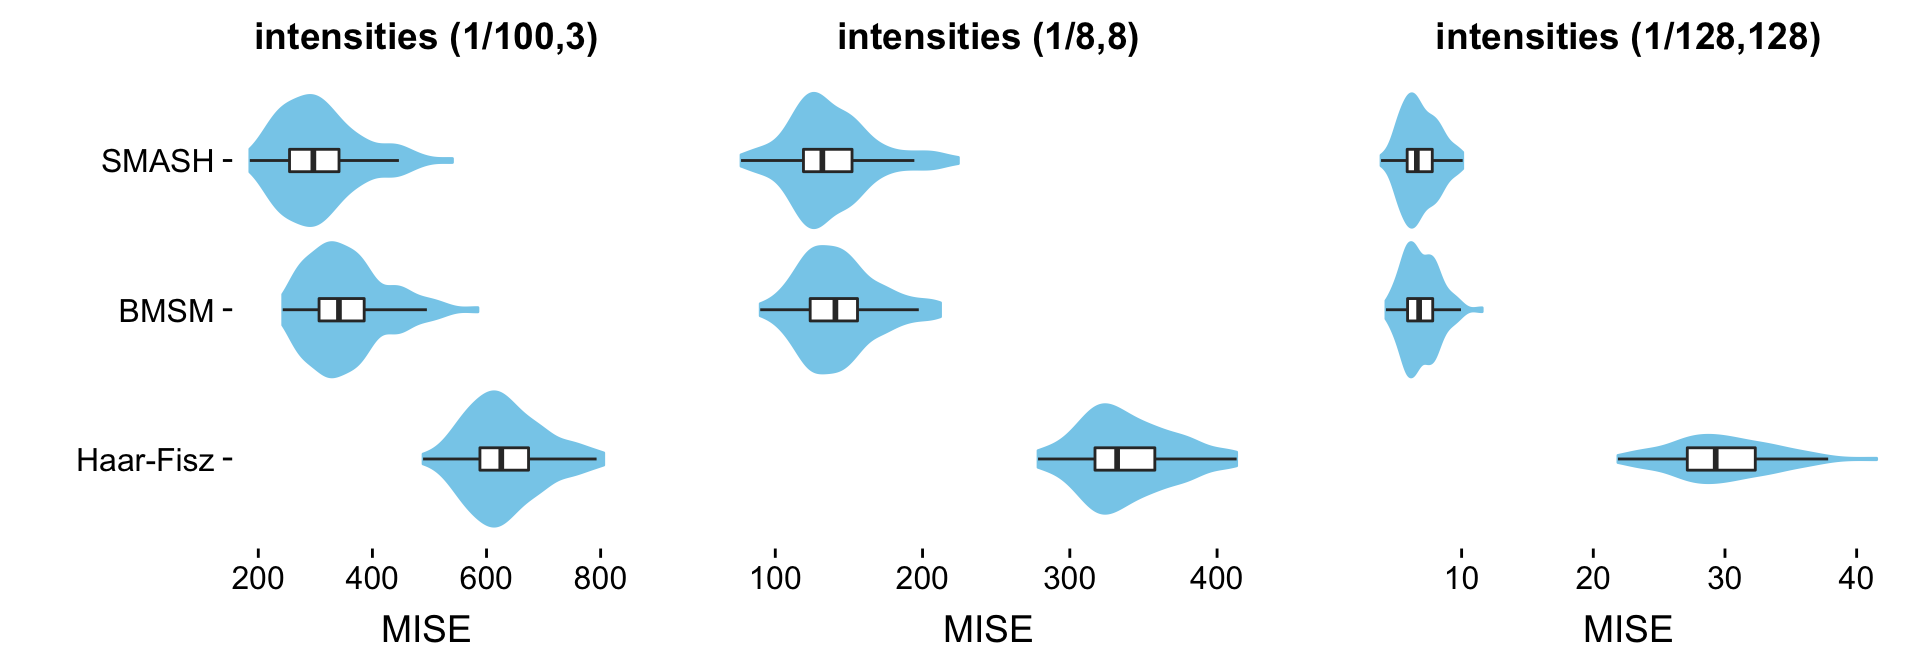
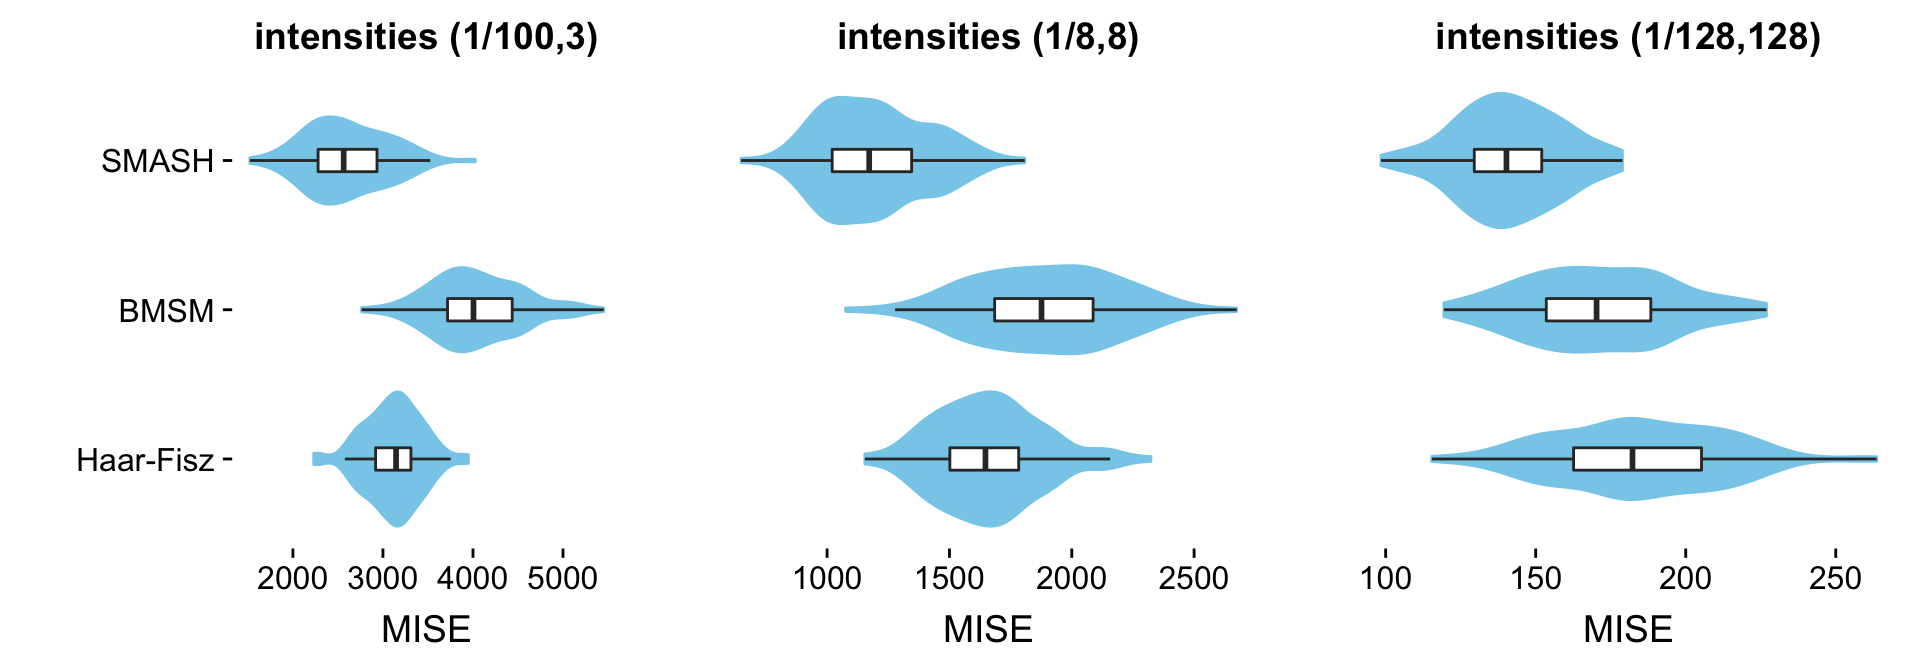
Fixed plots for Bursts simulations.

diff --git a/docs/poisson.html b/docs/poisson.html
@@ -241,7 +241,7 @@ div.section {
 </details>
 </li>
 <li>
-<p><details> <summary> <strong style="color:blue;">✔</strong> <strong>Repository version:</strong> <a href="https://github.com/stephenslab/smash-paper/tree/7db6b711fa8597bcd5550ee10280cf5b30b4c063" target="_blank">7db6b71</a> </summary></p>
+<p><details> <summary> <strong style="color:blue;">✔</strong> <strong>Repository version:</strong> <a href="https://github.com/stephenslab/smash-paper/tree/b9f5cd35861aa46b14d176cfb1f3ed36e5a1fdac" target="_blank">b9f5cd3</a> </summary></p>
 Great! You are using Git for version control. Tracking code development and connecting the code version to the results is critical for reproducibility. The version displayed above was the version of the Git repository at the time these results were generated. <br><br> Note that you need to be careful to ensure that all relevant files for the analysis have been committed to Git prior to generating the results (you can use <code>wflow_publish</code> or <code>wflow_git_commit</code>). workflowr only checks the R Markdown file, but you know if there are other scripts or data files that it depends on. Below is the status of the Git repository when the results were generated:
 <pre><code>
 Ignored files:
@@ -273,9 +273,6 @@ Ignored files:
     Ignored:    dsc/code/Wavelab850/MEXSource/dst_ii.mexmac
     Ignored:    dsc/code/Wavelab850/MEXSource/dst_iii.mexmac
 
-Unstaged changes:
-    Modified:   analysis/index.Rmd
-
 </code></pre>
 Note that any generated files, e.g. HTML, png, CSS, etc., are not included in this status report because it is ok for generated content to have uncommitted changes. </details>
 </li>
@@ -303,6 +300,40 @@ Message
 </tr>
 </thead>
 <tbody>
+<tr>
+<td style="text-align:left;">
+Rmd
+</td>
+<td style="text-align:left;">
+<a href="https://github.com/stephenslab/smash-paper/blob/b9f5cd35861aa46b14d176cfb1f3ed36e5a1fdac/analysis/poisson.Rmd" target="_blank">b9f5cd3</a>
+</td>
+<td style="text-align:left;">
+Peter Carbonetto
+</td>
+<td style="text-align:left;">
+2018-12-21
+</td>
+<td style="text-align:left;">
+wflow_publish(c(“index.Rmd”, “poisson.Rmd”))
+</td>
+</tr>
+<tr>
+<td style="text-align:left;">
+html
+</td>
+<td style="text-align:left;">
+<a href="https://cdn.rawgit.com/stephenslab/smash-paper/34416673b560f75e8bc2c896214df3e7a318821d/docs/poisson.html" target="_blank">3441667</a>
+</td>
+<td style="text-align:left;">
+Peter Carbonetto
+</td>
+<td style="text-align:left;">
+2018-12-21
+</td>
+<td style="text-align:left;">
+Revised Bumps results in poisson.Rmd.
+</td>
+</tr>
 <tr>
 <td style="text-align:left;">
 Rmd
@@ -697,7 +728,7 @@ colnames(mise.s.table) &lt;- table.col.names
 print(xtable(mise.s.table,caption = &quot; &quot;),type = &quot;html&quot;,
       html.table.attributes = &quot;border=0&quot;)</code></pre>
 <!-- html table generated in R 3.4.3 by xtable 1.8-2 package -->
-<!-- Fri Dec 21 10:22:32 2018 -->
+<!-- Fri Dec 21 10:28:33 2018 -->
 <table border="0">
 <caption align="bottom">
 </caption>
@@ -900,7 +931,7 @@ colnames(mise.ang.table) &lt;- table.col.names
 print(xtable(mise.ang.table,caption = &quot; &quot;),type = &quot;html&quot;,
       html.table.attributes = &quot;border=0&quot;)</code></pre>
 <!-- html table generated in R 3.4.3 by xtable 1.8-2 package -->
-<!-- Fri Dec 21 10:22:51 2018 -->
+<!-- Fri Dec 21 10:28:53 2018 -->
 <table border="0">
 <caption align="bottom">
 </caption>
@@ -1074,7 +1105,7 @@ colnames(mise.hs.table) &lt;- table.col.names
 print(xtable(mise.hs.table,caption = &quot; &quot;),type = &quot;html&quot;,
       html.table.attributes = &quot;border=0&quot;)</code></pre>
 <!-- html table generated in R 3.4.3 by xtable 1.8-2 package -->
-<!-- Fri Dec 21 10:23:10 2018 -->
+<!-- Fri Dec 21 10:29:13 2018 -->
 <table border="0">
 <caption align="bottom">
 </caption>
@@ -1252,7 +1283,7 @@ colnames(mise.bur.table) &lt;- table.col.names
 print(xtable(mise.bur.table,caption = &quot; &quot;),type = &quot;html&quot;,
       html.table.attributes = &quot;border=0&quot;)</code></pre>
 <!-- html table generated in R 3.4.3 by xtable 1.8-2 package -->
-<!-- Fri Dec 21 10:23:28 2018 -->
+<!-- Fri Dec 21 10:29:32 2018 -->
 <table border="0">
 <caption align="bottom">
 </caption>
@@ -1429,7 +1460,7 @@ colnames(mise.cb.table) &lt;- table.col.names
 print(xtable(mise.cb.table,caption = &quot; &quot;),type = &quot;html&quot;,
       html.table.attributes = &quot;border=0&quot;)</code></pre>
 <!-- html table generated in R 3.4.3 by xtable 1.8-2 package -->
-<!-- Fri Dec 21 10:23:47 2018 -->
+<!-- Fri Dec 21 10:29:51 2018 -->
 <table border="0">
 <caption align="bottom">
 </caption>
@@ -1576,7 +1607,7 @@ colnames(mise.b.table) &lt;- table.col.names
 print(xtable(mise.b.table,caption = &quot; &quot;),type = &quot;html&quot;,
       html.table.attributes = &quot;border=0&quot;)</code></pre>
 <!-- html table generated in R 3.4.3 by xtable 1.8-2 package -->
-<!-- Fri Dec 21 10:24:07 2018 -->
+<!-- Fri Dec 21 10:30:10 2018 -->
 <table border="0">
 <caption align="bottom">
 </caption>
@@ -1652,13 +1683,13 @@ mise.hf.ti.r.b.128 &lt;- colMeans(rbind(mise.hf.ti.r.4.b.128,
                                      mise.hf.ti.r.7.b.128))
 pdat1 &lt;-
   data.frame(method = factor(rep(method.labels,each = m),method.labels),
-             mise   = c(mise.hf.ti.r.cb.1,mise.BMSM.cb.1,mise.ash.cb.1))
+             mise   = c(mise.hf.ti.r.b.1,mise.BMSM.b.1,mise.ash.b.1))
 pdat8 &lt;-
   data.frame(method = factor(rep(method.labels,each = m),method.labels),
-             mise   = c(mise.hf.ti.r.cb.8,mise.BMSM.cb.8,mise.ash.cb.8))
+             mise   = c(mise.hf.ti.r.b.8,mise.BMSM.b.8,mise.ash.b.8))
 pdat128 &lt;-
   data.frame(method=factor(rep(method.labels,each = m),method.labels),
-             mise  =c(mise.hf.ti.r.cb.128,mise.BMSM.cb.128,mise.ash.cb.128))
+             mise  =c(mise.hf.ti.r.b.128,mise.BMSM.b.128,mise.ash.b.128))
 create.violin.plots(pdat1,pdat8,pdat128)</code></pre>
 <p><img src="figure/poisson.Rmd/bumps-violin-plots-1.png" width="960" style="display: block; margin: auto;" /></p>
 </div>

diff --git a/docs/index.html b/docs/index.html
@@ -215,7 +215,7 @@ div.section {
 </div>
 
 
-<p><strong>Last updated:</strong> 2018-12-20</p>
+<p><strong>Last updated:</strong> 2018-12-21</p>
 <strong>workflowr checks:</strong> <small>(Click a bullet for more information)</small>
 <ul>
 <li>
@@ -224,7 +224,7 @@ div.section {
 </details>
 </li>
 <li>
-<p><details> <summary> <strong style="color:blue;">✔</strong> <strong>Repository version:</strong> <a href="https://github.com/stephenslab/smash-paper/tree/840ef19b04c0d259cc1e029c1e256f1200a9824c" target="_blank">840ef19</a> </summary></p>
+<p><details> <summary> <strong style="color:blue;">✔</strong> <strong>Repository version:</strong> <a href="https://github.com/stephenslab/smash-paper/tree/b9f5cd35861aa46b14d176cfb1f3ed36e5a1fdac" target="_blank">b9f5cd3</a> </summary></p>
 Great! You are using Git for version control. Tracking code development and connecting the code version to the results is critical for reproducibility. The version displayed above was the version of the Git repository at the time these results were generated. <br><br> Note that you need to be careful to ensure that all relevant files for the analysis have been committed to Git prior to generating the results (you can use <code>wflow_publish</code> or <code>wflow_git_commit</code>). workflowr only checks the R Markdown file, but you know if there are other scripts or data files that it depends on. Below is the status of the Git repository when the results were generated:
 <pre><code>
 Ignored files:
@@ -256,9 +256,6 @@ Ignored files:
     Ignored:    dsc/code/Wavelab850/MEXSource/dst_ii.mexmac
     Ignored:    dsc/code/Wavelab850/MEXSource/dst_iii.mexmac
 
-Unstaged changes:
-    Modified:   analysis/poisson_plots.Rmd
-
 </code></pre>
 Note that any generated files, e.g. HTML, png, CSS, etc., are not included in this status report because it is ok for generated content to have uncommitted changes. </details>
 </li>
@@ -286,6 +283,40 @@ Message
 </tr>
 </thead>
 <tbody>
+<tr>
+<td style="text-align:left;">
+Rmd
+</td>
+<td style="text-align:left;">
+<a href="https://github.com/stephenslab/smash-paper/blob/b9f5cd35861aa46b14d176cfb1f3ed36e5a1fdac/analysis/index.Rmd" target="_blank">b9f5cd3</a>
+</td>
+<td style="text-align:left;">
+Peter Carbonetto
+</td>
+<td style="text-align:left;">
+2018-12-21
+</td>
+<td style="text-align:left;">
+wflow_publish(c(“index.Rmd”, “poisson.Rmd”))
+</td>
+</tr>
+<tr>
+<td style="text-align:left;">
+html
+</td>
+<td style="text-align:left;">
+<a href="https://cdn.rawgit.com/stephenslab/smash-paper/c8151631effc9078ec4dc32f0356274dbb5773c3/docs/index.html" target="_blank">c815163</a>
+</td>
+<td style="text-align:left;">
+Peter Carbonetto
+</td>
+<td style="text-align:left;">
+2018-12-20
+</td>
+<td style="text-align:left;">
+Added info about Poisson results in output directory.
+</td>
+</tr>
 <tr>
 <td style="text-align:left;">
 Rmd
@@ -901,7 +932,7 @@ Start workflowr project with wflow_start().
 <li><p>The <code>data</code> directory contains data files used in the ChIP-seq demo.</p></li>
 <li><p>The <code>docs</code> directory contains webpages generated from the R Markdown files in the analysis directory.</p></li>
 <li><p>The <code>dsc</code> directory contains R and MATLAB code used to implement the “Gaussian mean estimation” simulations in the manuscript.</p></li>
-<li><p>The <code>output</code> directory contains results from the Gaussian and Poisson simulations. File <code>pois_hf.RData</code> contains results from experimenting with different Gaussian denoising techniques for the Haar-Fisz algorithm in the Poisson simulations.</p></li>
+<li><p>The <code>output</code> directory contains results from the Gaussian and Poisson simulations. The <code>pois_hf.RData</code> file in this directory contains results from experimenting with different Gaussian denoising techniques for the Haar-Fisz algorithm in the Poisson simulations.</p></li>
 <li><p>The <code>shiny</code> directory contains code to generate the Shiny Web app in R.</p></li>
 </ul>
 </div>
